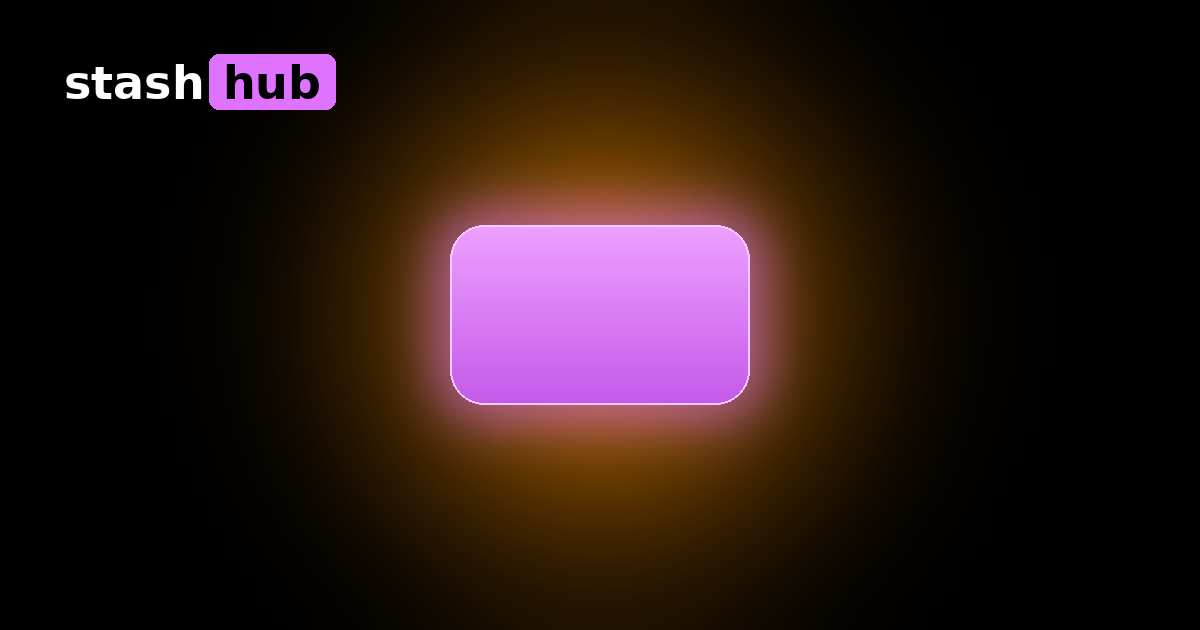
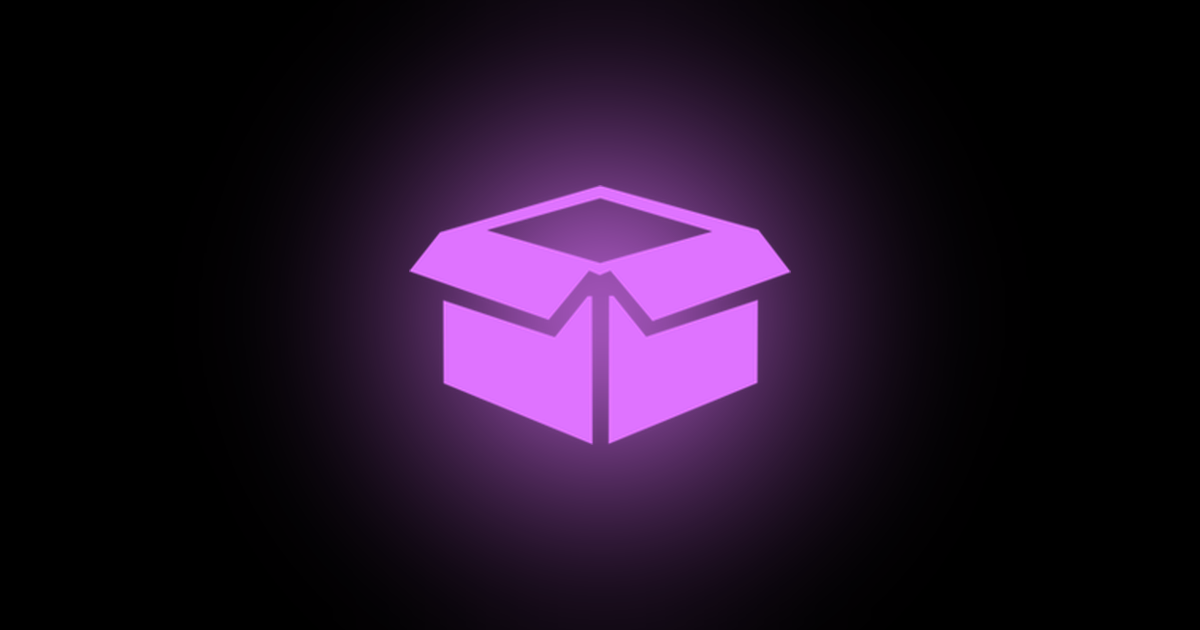
og:image redo, biting-lip title, longer description
Previous og-image had a wordmark and orange glow that weren't asked for.
Replaced with exactly what was: dark bg, the app's own box icon
centered, purple glow, nothing else.

Title is now the biting-lip emoji + stashhub everywhere (app shell,
login page, og:title, twitter:title) instead of the login page just
saying "Login". Description lengthened to actually describe the app
and says adult content plainly instead of the vague "personal media
library" line.

diff --git a/ui/login/login.html b/ui/login/login.html
@@ -4,7 +4,7 @@
     <base href="/%BASE_URL%/">
     <meta charset="UTF-8">
     <meta name="viewport" content="width=device-width, initial-scale=1, shrink-to-fit=no">
-    <title>Login</title>
+    <title>🫦 stashhub</title>
 
     <!-- This login page is what any unauthenticated visitor (including
          crawlers and link-preview bots) actually receives, so the robots and
@@ -17,10 +17,10 @@
 
     <meta property="og:type" content="website" />
     <meta property="og:site_name" content="stashhub" />
-    <meta property="og:title" content="stashhub" />
+    <meta property="og:title" content="🫦 stashhub" />
     <meta
       property="og:description"
-      content="Personal media library and vertical feed."
+      content="A private, self-hosted library for organizing and streaming adult content, with a TikTok-style vertical feed, smart tagging, performer and studio metadata, and a learning algorithm that adapts to what you actually watch."
     />
     <meta property="og:image" content="%OG_URL%/og-image.png" />
     <meta property="og:image:width" content="1200" />
@@ -28,10 +28,10 @@
     <meta property="og:url" content="%OG_URL%/" />
 
     <meta name="twitter:card" content="summary_large_image" />
-    <meta name="twitter:title" content="stashhub" />
+    <meta name="twitter:title" content="🫦 stashhub" />
     <meta
       name="twitter:description"
-      content="Personal media library and vertical feed."
+      content="A private, self-hosted library for organizing and streaming adult content, with a TikTok-style vertical feed, smart tagging, performer and studio metadata, and a learning algorithm that adapts to what you actually watch."
     />
     <meta name="twitter:image" content="%OG_URL%/og-image.png" />
 

diff --git a/ui/v2.5/index.html b/ui/v2.5/index.html
@@ -11,7 +11,7 @@
     />
     <meta name="theme-color" content="%COLOR%" />
     <link rel="manifest" crossorigin="use-credentials" href="manifest.json" />
-    <title>stashhub</title>
+    <title>🫦 stashhub</title>
 
     <!-- Never surface this instance to search engines or crawlers. -->
     <meta
@@ -25,10 +25,10 @@
          the server's X-Robots-Tag header + robots.txt handle. -->
     <meta property="og:type" content="website" />
     <meta property="og:site_name" content="stashhub" />
-    <meta property="og:title" content="stashhub" />
+    <meta property="og:title" content="🫦 stashhub" />
     <meta
       property="og:description"
-      content="Personal media library and vertical feed."
+      content="A private, self-hosted library for organizing and streaming adult content, with a TikTok-style vertical feed, smart tagging, performer and studio metadata, and a learning algorithm that adapts to what you actually watch."
     />
     <meta property="og:image" content="%OG_URL%/og-image.png" />
     <meta property="og:image:width" content="1200" />
@@ -36,10 +36,10 @@
     <meta property="og:url" content="%OG_URL%/" />
 
     <meta name="twitter:card" content="summary_large_image" />
-    <meta name="twitter:title" content="stashhub" />
+    <meta name="twitter:title" content="🫦 stashhub" />
     <meta
       name="twitter:description"
-      content="Personal media library and vertical feed."
+      content="A private, self-hosted library for organizing and streaming adult content, with a TikTok-style vertical feed, smart tagging, performer and studio metadata, and a learning algorithm that adapts to what you actually watch."
     />
     <meta name="twitter:image" content="%OG_URL%/og-image.png" />
   </head>
